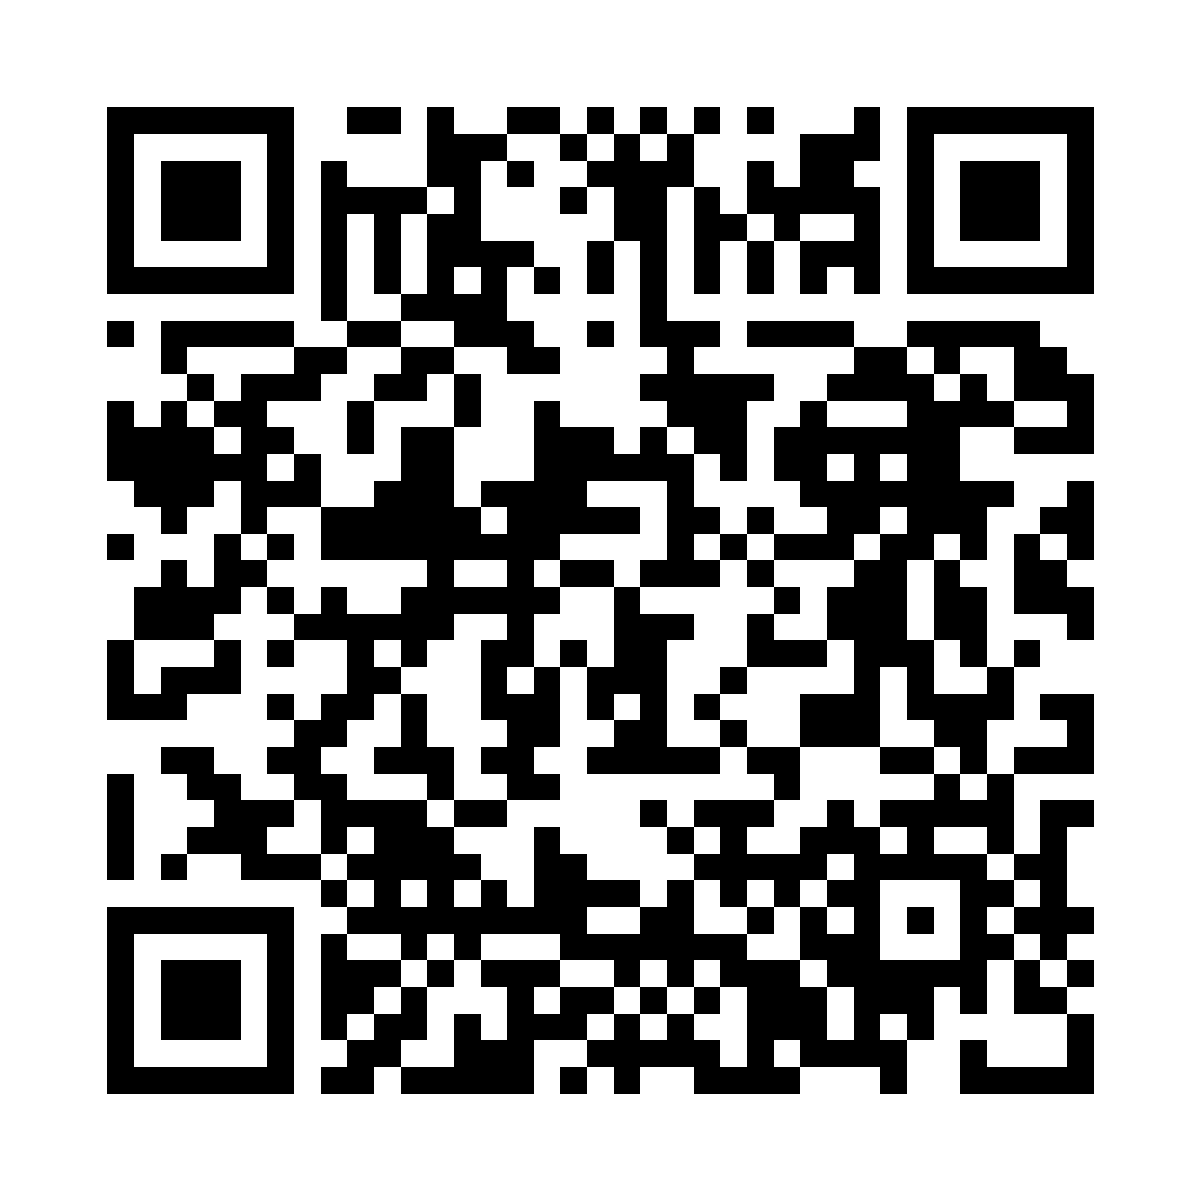
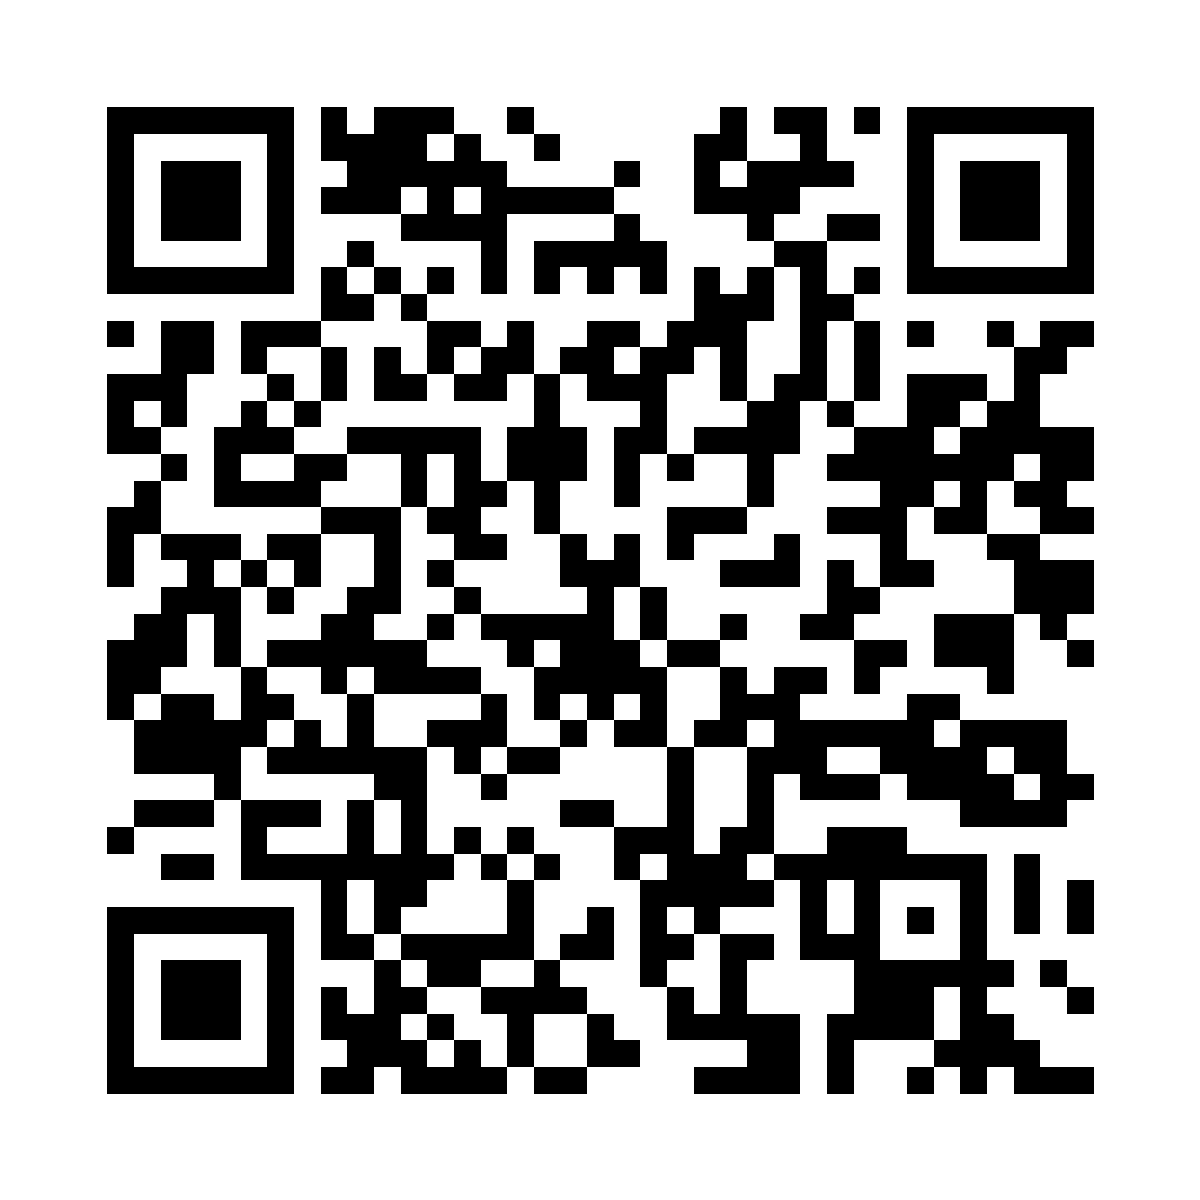
Apuntar SITE_URL y QR a GitHub Pages
Claude-Session: https://claude.ai/code/session_01E8kRmghxSjazKaN2ewPhbW

Changed region(s): [[0.0617, 0.0617, 0.925, 0.925]]

diff --git a/config.js b/config.js
@@ -14,7 +14,7 @@ window.RUVU_CONFIG = {
 
   /* URL pública del sitio (con / al final). Se usa para generar los QR.
      Ejemplo GitHub Pages: 'https://tu-usuario.github.io/ruvu-encuesta/' */
-  SITE_URL: 'https://TODO-usuario.github.io/ruvu-encuesta/',
+  SITE_URL: 'https://nicojesi2026-collab.github.io/ruvu-encuesta/',
 
   /* PIN para entrar al contador (/contador.html) y al panel (/panel.html).
      IMPORTANTE: tiene que ser el mismo que pongas en apps-script/Code.gs. */
